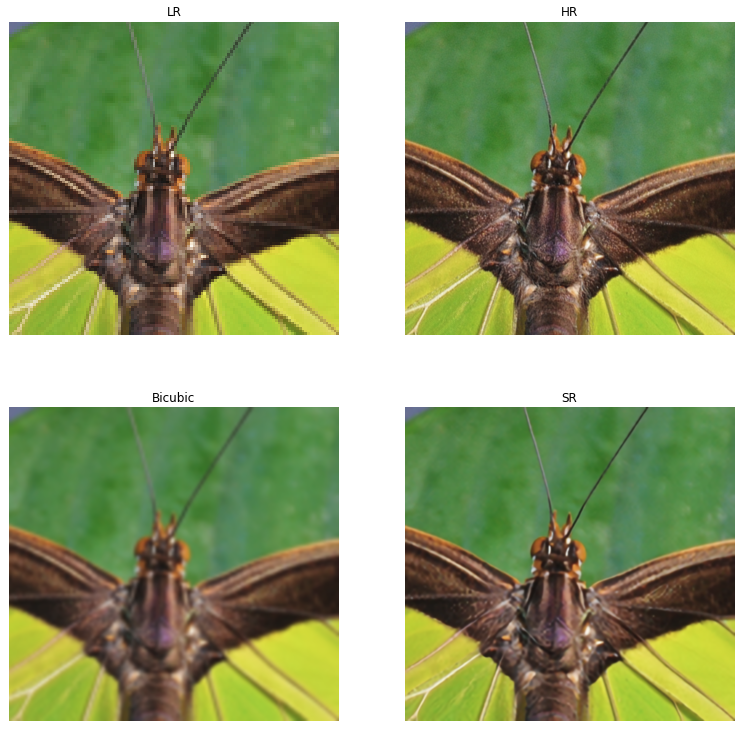
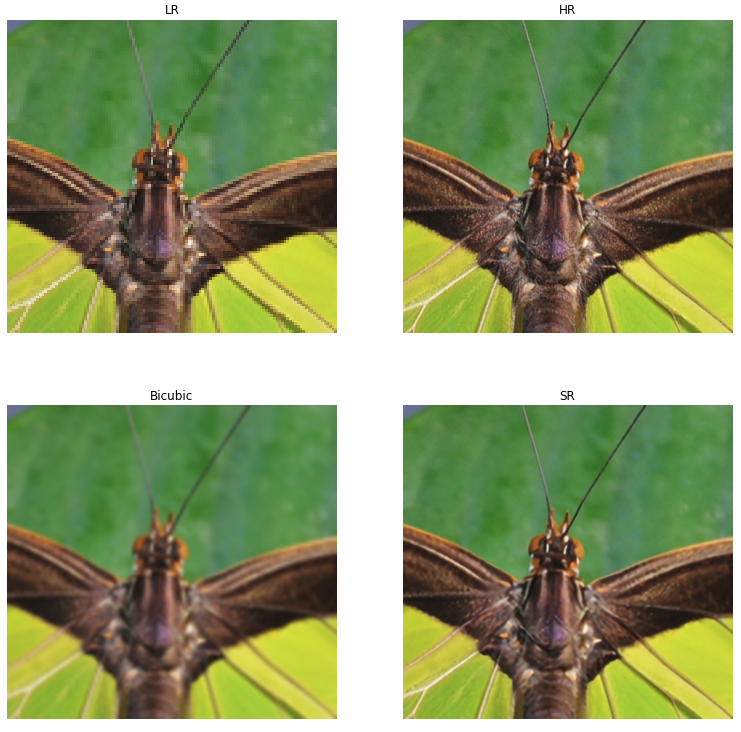
Use wdsr-b-16-x4 model for demo

diff --git a/README.md b/README.md
@@ -42,6 +42,20 @@ The following table gives an overview of available pre-trained models and their 
         <th>Training</th>
     </tr>
     <tr>
+        <td><a href="https://drive.google.com/open?id=1Q2-fPMWm9EPGh4XEnfXKcxcSHuDik_3a">wdsr-b-16-x2</a></td>
+        <td>x2</td>
+        <td>1.78M</td>
+        <td>34.664</td>
+        <td><a href="https://drive.google.com/open?id=1iCTCzSd6bDr0h_J0bTRS3xB8SDyshHj-">settings</a></td>
+    </tr>
+    <tr>
+        <td><a href="https://drive.google.com/open?id=1xifqCrJeCypsMGzL-SWj7wzdNMCn35S-">wdsr-b-16-x4</a></td>
+        <td>x4</td>
+        <td>1.79M</td>
+        <td>29.039</td>
+        <td><a href="https://drive.google.com/open?id=1DzqDHiyy5xTbrwYKSU9hjRkNfoVAA7Vj">settings</a></td>
+    </tr>
+    <tr>
         <td><a href="https://drive.google.com/open?id=1Vr_eLXnNA7H6zNWmEFKOBv4-xvOBt5iu">wdsr-b-8-x2</a></td>
         <td>x2</td>
         <td>0.89M</td>
@@ -61,13 +75,6 @@ The following table gives an overview of available pre-trained models and their 
         <td>0.90M</td>
         <td>28.912</td>
         <td><a href="https://drive.google.com/open?id=1jgQfwGR_HVqVUjQqkvHCDhHowvTBmP5_">settings</a></td>
-    </tr>
-    <tr>
-        <td><a href="https://drive.google.com/open?id=1Q2-fPMWm9EPGh4XEnfXKcxcSHuDik_3a">wdsr-b-16-x2</a></td>
-        <td>x2</td>
-        <td>1.78M</td>
-        <td>34.664</td>
-        <td><a href="https://drive.google.com/open?id=1iCTCzSd6bDr0h_J0bTRS3xB8SDyshHj-">settings</a></td>
     </tr>
     <tr>
         <td><a href="https://drive.google.com/open?id=1tp7r_oUf8Ohd9q-ouGApS7qNtqg1IRLt">wdsr-a-8-x2</a></td>
@@ -91,10 +98,10 @@ instead of 16.
 ## Demo
 
 The example in this section super-resolves images in directory [`./demo`](demo) with factor x4 using the downloaded 
-[wdsr-b-8-x4](https://drive.google.com/open?id=1WCpIY9G-9fL9cTa3We9ry3hm-ePT58b_) **baseline model** and writes the 
+[wdsr-b-16-x4](https://drive.google.com/open?id=1xifqCrJeCypsMGzL-SWj7wzdNMCn35S-) **baseline model** and writes the 
 results to directory `./output`:
 
-    python demo.py -i ./demo -o ./output --model=./wdsr-b-8-x4-psnr-28.9121.h5
+    python demo.py -i ./demo -o ./output --model=./wdsr-b-16-x4-psnr-29.0393.h5
     
 The following figures compare the super-resolution results (SR) with the corresponding low-resolution (LR) and 
 high-resolution (HR) images and an x4 resize with bicubic interpolation. The demo images were cropped from images in 
